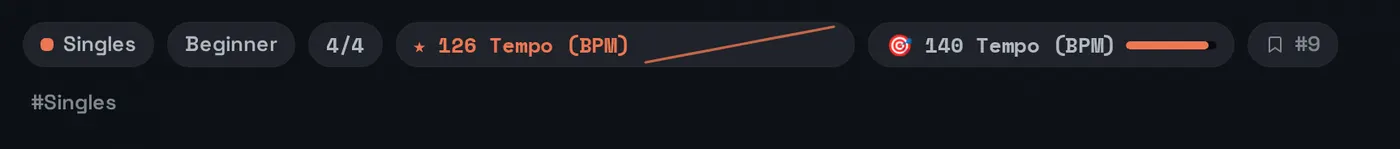
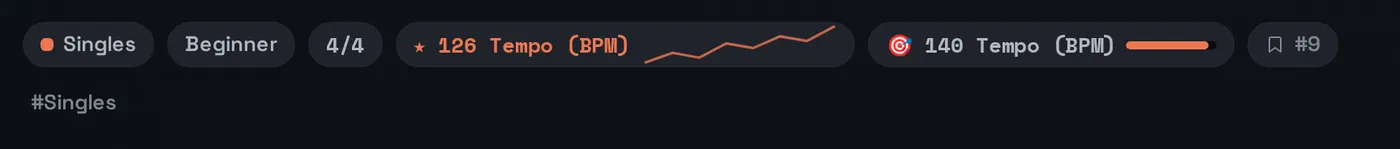
Guide round two: corner search, bottom spy, 11 more screenshots
- Search moved into the title row's top-right corner (the sticky tinted
  plate looked wrong, especially in dark theme); mobile chips sit under
  the title.
- Scroll-spy reaches the last section at page bottom and re-checks
  periodically (lazy images shift the layout without scroll events).
- Sparkline seed data varied so the tempo graphs look like graphs, not
  a stray dash (goal chip + stats shots regenerated).
- 11 new screenshots: polyrhythm, sight reading, import/export,
  sections, tied roll notation, speed/gap trainers, count-in, workout
  runner strip, exercise of the day, volumes. 28 images total, 439 KB.

Changed region(s): [[0.4607, 0.1611, 0.6143, 0.4295]]

diff --git a/src/data/guide.js b/src/data/guide.js
@@ -55,6 +55,7 @@ export const GUIDE = [
       },
       {
         title: 'Polyrhythm',
+        img: 'poly',
         tags: ['trainer', 'polyrhythm', '3:2', '4:3'],
         body: 'Adds a second, woodier click that plays N even strokes per bar against the meter — 4:3, 4:5, anything up to 7. Great for hearing how the two streams interlock before trying it on the kit.',
       },
@@ -89,11 +90,13 @@ export const GUIDE = [
       },
       {
         title: 'Sight reading',
+        img: 'sightreading',
         tags: ['generator', 'random', 'reading'],
         body: 'The Sight reading cards generate a fresh two-bar snare rhythm at your level every time — beginner sticks to eighths, advanced mixes triplets, syncopation and flams. Inside, New rhythm rolls another one; Save keeps the ones you like.',
       },
       {
         title: 'Import & export',
+        img: 'export',
         tags: ['backup', 'json', 'files'],
         body: 'Any exercise exports as a .drums.json file; Export all backs up your whole library, journal and custom workouts in one file. Import accepts single exercises, workout files and full backups.',
       },
@@ -170,11 +173,13 @@ export const GUIDE = [
       },
       {
         title: 'Section markers',
+        img: 'sections',
         tags: ['sections', 'verse', 'chorus', 'labels'],
         body: 'Label a bar (🔖 in its header) — Intro, Verse, anything up to 24 characters. Labels show in the grid and above the notation, survive export and share links, shift correctly when you insert or delete bars, and clicking one loops the section.',
       },
       {
         title: 'Tied rolls',
+        img: 'tied-roll',
         tags: ['rolls', 'ties', 'buzz'],
         body: 'A roll cell sounds until the next onset — even across a barline. In the books\' notation a tied roll resolves into the next downbeat (the tie is drawn for you); untied rolls breathe before the barline instead. Open rolls are metered 32nd-note doubles, closed rolls buzz twice as dense, and both follow the tempo.',
       },
@@ -187,16 +192,19 @@ export const GUIDE = [
     items: [
       {
         title: 'Speed trainer',
+        img: 'speed-trainer',
         tags: ['tempo ramp', 'speed', 'bpm'],
         body: 'Raises the tempo by N bpm every M bars, optionally capped. The live tempo shows in the player bar; your highest clean tempo lands in the journal as a record. Stone\'s "20 relaxed repetitions, then faster" — automated.',
       },
       {
         title: 'Gap trainer',
+        img: 'gap-trainer',
         tags: ['gap', 'timekeeping', 'silent bars'],
         body: 'Plays the click for N bars, mutes it for M, repeating. If you are still locked in when it returns, your inner clock is doing its job. A MUTED pill shows in the player bar during the silent stretch.',
       },
       {
         title: 'Count-in',
+        img: 'count-in',
         tags: ['count in', 'count off', 'lead in'],
         body: 'Lead-in clicks before the exercise starts. Loop mode counts in once; Phrase mode counts in before every pass — drill mode for fills. Four feels, from plain quarters to the classic "1, 2, 1-2-3-4" count-off.',
       },
@@ -209,12 +217,13 @@ export const GUIDE = [
     items: [
       {
         title: 'Guided sessions',
-        img: 'workouts',
+        img: 'runner',
         tags: ['routine', 'daily', 'blocks'],
         body: 'A workout is a timed chain of blocks: each opens its exercise with the right tempo and trainers, and moves on automatically. The strip above the player bar shows the block, time left and a skip button. Pausing playback pauses the clock — the minutes count actual practice.',
       },
       {
         title: 'Your own workouts',
+        img: 'workouts',
         tags: ['custom', 'editor', 'duplicate'],
         body: 'Build routines in the workout editor: pick exercises, minutes, tempo, ramps, gaps and count-ins per block. Duplicate any built-in to use it as a starting point. Workouts export as files you can share.',
       },
@@ -231,6 +240,7 @@ export const GUIDE = [
       },
       {
         title: 'Exercise of the day',
+        img: 'daily',
         tags: ['daily', 'sight reading'],
         body: 'One generated sight-reading exercise per day — same for everyone, new every midnight. A painless daily reading habit.',
       },
@@ -249,6 +259,7 @@ export const GUIDE = [
       },
       {
         title: 'Tempo records',
+        img: 'goal-chip',
         tags: ['records', 'best', 'sparkline'],
         body: 'Your best tempo per exercise is tracked from real playback (ramped tempos count). The ★ chip on an exercise shows the record with a history sparkline.',
       },
@@ -283,6 +294,7 @@ export const GUIDE = [
       },
       {
         title: 'Volumes',
+        img: 'volumes',
         tags: ['balance', 'exercise volume', 'metronome volume'],
         body: 'Exercise and metronome volumes are separate sliders, so the click can sit above or under the kit at any balance. The metronome page has its own volume for plain-click practice.',
       },
@@ -295,11 +307,13 @@ export const GUIDE = [
     items: [
       {
         title: 'Backups',
+        img: 'export',
         tags: ['export all', 'backup', 'restore'],
         body: 'Export all (Library → collections row) writes one JSON with your exercises, journal, goals and custom workouts. Keep it somewhere safe — browser storage can be cleared by the OS. Import merges; journal days keep whichever side practiced more.',
       },
       {
         title: 'Share links',
+        img: 'share-print',
         tags: ['url', 'share', 'compress'],
         body: 'Share link compresses the open exercise into the URL itself. Anyone opening it gets the exercise in their practice view — notation, sticking, sections and all — and can save their own copy.',
       },

diff --git a/src/components/v2/GuideView.jsx b/src/components/v2/GuideView.jsx
@@ -33,6 +33,10 @@ export default function GuideView({ t, target, onActiveChange }) {
       for (const el of sections) {
         if (el.getBoundingClientRect().top <= 140) cur = el.id
       }
+      // Fully scrolled: the last (short) section may never cross the band.
+      if (window.innerHeight + window.scrollY >= document.documentElement.scrollHeight - 8) {
+        cur = sections[sections.length - 1]?.id
+      }
       if (cur) {
         const id = cur.replace('guide-', '')
         setActive(id)
@@ -41,7 +45,9 @@ export default function GuideView({ t, target, onActiveChange }) {
     }
     onScroll()
     window.addEventListener('scroll', onScroll, { passive: true })
-    return () => window.removeEventListener('scroll', onScroll)
+    // Lazy images can shift the layout without a scroll event — re-check slowly.
+    const tick = setInterval(onScroll, 1000)
+    return () => { window.removeEventListener('scroll', onScroll); clearInterval(tick) }
   }, [searching, onActiveChange])
 
   useEffect(() => {
@@ -59,22 +65,22 @@ export default function GuideView({ t, target, onActiveChange }) {
 
   return (
     <div className="guide" data-screen-label="Guide">
-      <h1 className="page-title">{t('guideTitle')}</h1>
-      <div className="gd-sticky">
+      <div className="gd-head">
+        <h1 className="page-title">{t('guideTitle')}</h1>
         <div className="gd-search lib2-search">
           <Icon name="search" className="ic" />
           <input value={q} placeholder={t('guideSearch')} onChange={(e) => setQ(e.target.value)} />
           {q && <button className="search-clear" onClick={() => setQ('')}><Icon name="close" className="ic-xs" /></button>}
         </div>
-        {/* Mobile (no app sidebar): horizontal section chips with the active one lit. */}
-        <nav className="gd-toc" aria-label={t('guideToc')}>
-          {GUIDE.map((sec) => (
-            <button key={sec.id} className={'gd-toc-item' + (active === sec.id ? ' is-active' : '')} onClick={() => jump(sec.id)}>
-              <Icon name={sec.icon} className="ic" /><span>{sec.title}</span>
-            </button>
-          ))}
-        </nav>
       </div>
+      {/* Mobile (no app sidebar): horizontal section chips with the active one lit. */}
+      <nav className="gd-toc" aria-label={t('guideToc')}>
+        {GUIDE.map((sec) => (
+          <button key={sec.id} className={'gd-toc-item' + (active === sec.id ? ' is-active' : '')} onClick={() => jump(sec.id)}>
+            <Icon name={sec.icon} className="ic" /><span>{sec.title}</span>
+          </button>
+        ))}
+      </nav>
 
       <div className="gd-content">
         {searching ? (

diff --git a/src/styles/v2-extra.css b/src/styles/v2-extra.css
@@ -639,14 +639,10 @@ a.iconbtn { display: inline-grid; place-items: center; text-decoration: none; }
 
 /* ---- Guide (in-app manual) ---- */
 .guide { max-width: 860px; }
-/* Search (and the mobile chips) stay reachable while reading. */
-.gd-sticky {
-  position: sticky; top: 0; z-index: 10;
-  margin: 0 calc(-1 * var(--s-2)); padding: var(--s-2);
-  background: color-mix(in oklab, var(--bg) 88%, transparent);
-  backdrop-filter: blur(10px);
-}
-.gd-search { margin: var(--s-2) 0; max-width: 420px; }
+/* Title row: search sits quietly in the top-right corner. */
+.gd-head { display: flex; align-items: center; justify-content: space-between; gap: var(--s-4); flex-wrap: wrap; }
+.gd-head .page-title { margin: 0; }
+.gd-search { flex: 0 1 340px; min-width: 220px; }
 .gd-toc { display: none; }
 .gd-toc-item {
   display: flex; align-items: center; gap: 7px; padding: 7px 10px;
@@ -658,7 +654,7 @@ a.iconbtn { display: inline-grid; place-items: center; text-decoration: none; }
 .gd-toc-item.is-active { color: var(--accent); border-color: var(--accent); background: color-mix(in oklab, var(--accent) 10%, transparent); }
 .gd-toc-item.is-active .ic { color: var(--accent); }
 .gd-content { min-width: 0; display: grid; gap: var(--s-6); margin-top: var(--s-3); }
-.gd-section { display: grid; gap: var(--s-4); scroll-margin-top: 86px; }
+.gd-section { display: grid; gap: var(--s-4); scroll-margin-top: 16px; }
 .gd-sec-title {
   display: flex; align-items: center; gap: 10px; margin: 0;
   font-size: 1.15rem; letter-spacing: -.01em;
@@ -684,9 +680,8 @@ a.iconbtn { display: inline-grid; place-items: center; text-decoration: none; }
 .gd-crumb:hover { color: var(--accent); }
 .qmark { font-weight: 800; font-size: 15px; }
 @media (max-width: 900px) {
-  .gd-toc { display: flex; overflow-x: auto; gap: 6px; padding-bottom: 4px; }
+  .gd-toc { display: flex; overflow-x: auto; gap: 6px; padding: var(--s-3) 0 4px; }
   .gd-toc-item { flex: none; }
-  .gd-section { scroll-margin-top: 130px; }
 }
 
 /* ---- What's new dialog ---- */

diff --git a/src/App.jsx b/src/App.jsx
@@ -33,7 +33,7 @@ import { initClickSamples } from './audio/clickSamples.js'
 import { loadSetlist, toggleInSetlist, removeFromSetlist, moveInSetlist, clearSetlist } from './model/setlist.js'
 import { decodeShare, shareFromHash } from './model/share.js'
 
-const APP_VERSION = 'v5.34' // bump on each change so a stale cache is obvious on device
+const APP_VERSION = 'v5.35' // bump on each change so a stale cache is obvious on device
 const TW_KEY = 'drums2_tw'
 const PROG_KEY = 'drums2_progress'
 const OPTS_KEY = 'drums2_opts'
